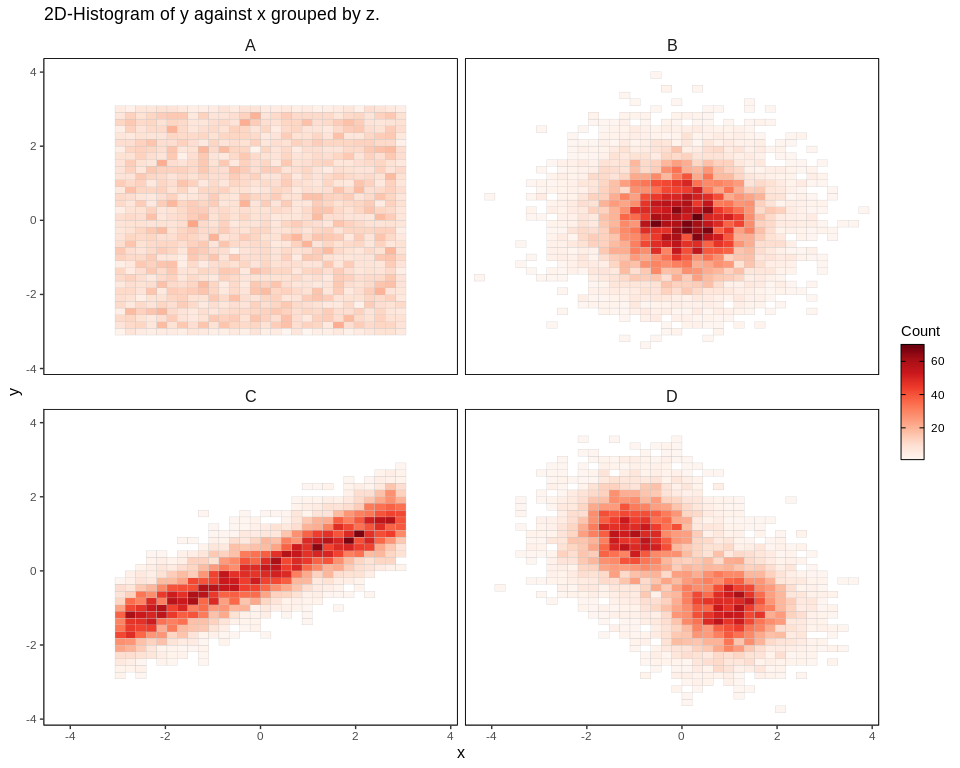
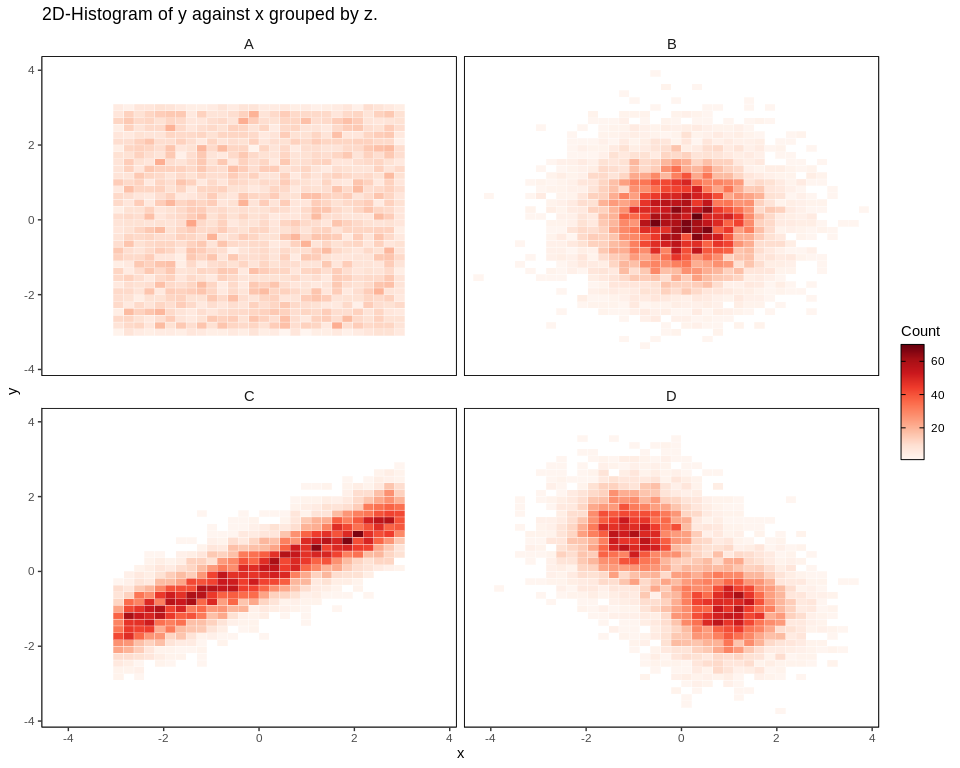
Cleaning readme page.

diff --git a/README.md b/README.md
@@ -83,30 +83,10 @@ hist2d(dt1,facet=1)
 
 <img src="man/figures/README-unnamed-chunk-5-1.png" width="100%" />
 
-You can also add regression line and choose a theme:
+You can also add Linear Regression line:
 
 ``` r
 hist2d(dt1,facet=1,hasLine=T)
-#>    z           b0         se0         p0            b1         se1        p1
-#> 1: A -0.003136379 0.017407808 0.85702210  0.0001257856 0.009965383 0.9899294
-#> 2: B  0.001260919 0.009794744 0.89757052 -0.0153182155 0.009739820 0.1158104
-#> 3: C -0.008884770 0.005015223 0.07649805  0.4973084183 0.002895251 0.0000000
-#> 4: D -0.018616805 0.009570524 0.05177611 -0.6381162003 0.007681034 0.0000000
-#>             rsq     n            sym0
-#> 1: 1.593532e-08 10000                
-#> 2: 2.473398e-04 10000                
-#> 3: 7.468981e-01 10000 symbol('\\267')
-#> 4: 4.083941e-01 10000 symbol('\\267')
-#>                                               sym1
-#> 1:                                                
-#> 2:                                                
-#> 3: symbol('\\052')*symbol('\\052')*symbol('\\052')
-#> 4: symbol('\\052')*symbol('\\052')*symbol('\\052')
-#>                                                                                                                                                       label
-#> 1:                                                              list(italic(Y)==1.26e-04^{ }*italic(X)-3.14e-03^{ },italic(R^2)==1.59e-08,italic(n)==10000)
-#> 2:                                                             list(italic(Y)==-1.53e-02^{ }*italic(X)+1.26e-03^{ },italic(R^2)==2.47e-04,italic(n)==10000)
-#> 3:  list(italic(Y)==4.97e-01^{symbol('\\052')*symbol('\\052')*symbol('\\052')}*italic(X)-8.88e-03^{symbol('\\267')},italic(R^2)==7.47e-01,italic(n)==10000)
-#> 4: list(italic(Y)==-6.38e-01^{symbol('\\052')*symbol('\\052')*symbol('\\052')}*italic(X)-1.86e-02^{symbol('\\267')},italic(R^2)==4.08e-01,italic(n)==10000)
 ```
 
 <img src="man/figures/README-unnamed-chunk-6-1.png" width="100%" />
